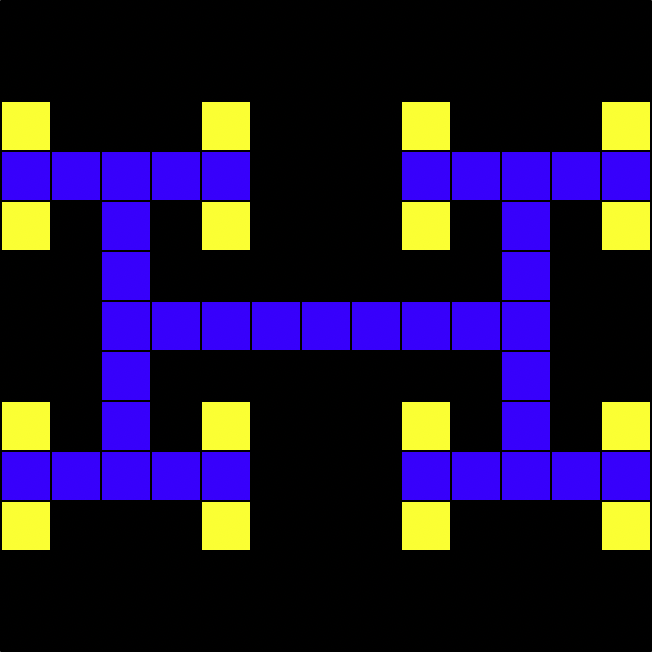
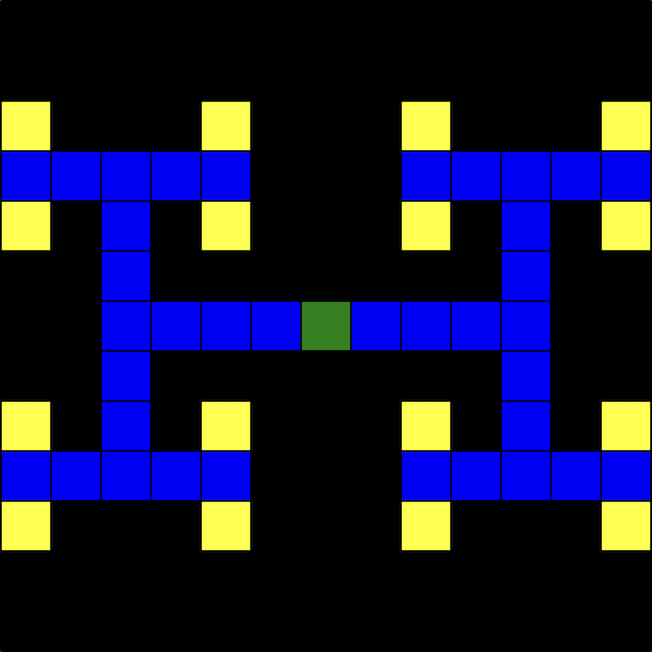
Add green square to puzzles that didn't have them

diff --git a/src/turbozzle/creator/levels.py b/src/turbozzle/creator/levels.py
@@ -110,7 +110,7 @@ LEVEL_6 = [
     ["x", "x", "x", "b", "b", "x", "x", "x", "b", "b", "x", "x", "x"],
     ["x", "x", "b", "b", "x", "x", "x", "x", "x", "b", "b", "x", "x"],
     ["x", "y", "b", "x", "x", "x", "x", "x", "x", "x", "b", "y", "x"],
-    ["r", "b", "x", "x", "x", "x", "x", "x", "x", "x", "x", "b", "r"],
+    ["g", "b", "x", "x", "x", "x", "x", "x", "x", "x", "x", "b", "r"],
     ["x", "y", "b", "x", "x", "x", "x", "x", "x", "x", "b", "y", "x"],
     ["x", "x", "b", "b", "x", "x", "x", "x", "x", "b", "b", "x", "x"],
     ["x", "x", "x", "b", "b", "x", "x", "x", "b", "b", "x", "x", "x"],
@@ -161,7 +161,7 @@ LEVEL_9 = [
     ["b", "b", "b", "b", "b", "x", "x", "x", "b", "b", "b", "b", "b"],
     ["y", "x", "b", "x", "y", "x", "x", "x", "y", "x", "b", "x", "y"],
     ["x", "x", "b", "x", "x", "x", "x", "x", "x", "x", "b", "x", "x"],
-    ["x", "x", "b", "b", "b", "b", "b", "b", "b", "b", "b", "x", "x"],
+    ["x", "x", "b", "b", "b", "b", "g", "b", "b", "b", "b", "x", "x"],
     ["x", "x", "b", "x", "x", "x", "x", "x", "x", "x", "b", "x", "x"],
     ["y", "x", "b", "x", "y", "x", "x", "x", "y", "x", "b", "x", "y"],
     ["b", "b", "b", "b", "b", "x", "x", "x", "b", "b", "b", "b", "b"],

diff --git a/src/turbozzle/creator/puzzle_creator.py b/src/turbozzle/creator/puzzle_creator.py
@@ -1,19 +1,7 @@
 #! /usr/bin/env python3
 import turtle
 
-from turbozzle.creator.levels import (
-    LEVEL_1,
-    LEVEL_2,
-    LEVEL_3,
-    LEVEL_4,
-    LEVEL_5,
-    LEVEL_6,
-    LEVEL_7,
-    LEVEL_8,
-    LEVEL_9,
-    MY_LEVEL,
-    get_color,
-)
+from turbozzle.creator.levels import LEVEL_1, LEVEL_2, LEVEL_3, LEVEL_4, LEVEL_5, LEVEL_6, LEVEL_7, LEVEL_8, LEVEL_9, MY_LEVEL, get_color
 
 
 def draw_box(t: turtle.Turtle, color: str) -> None:

diff --git a/src/turbozzle/utils/movement_wrapper.py b/src/turbozzle/utils/movement_wrapper.py
@@ -4,12 +4,7 @@ import time
 import turtle
 import typing
 
-from turbozzle.creator.levels import (
-    FILE_TO_LEVEL_MAP,
-    LevelConfig,
-    SquarePosition,
-    get_color,
-)
+from turbozzle.creator.levels import FILE_TO_LEVEL_MAP, LevelConfig, SquarePosition, get_color
 
 CONFIG_INFO: typing.Optional[LevelConfig] = None
 
